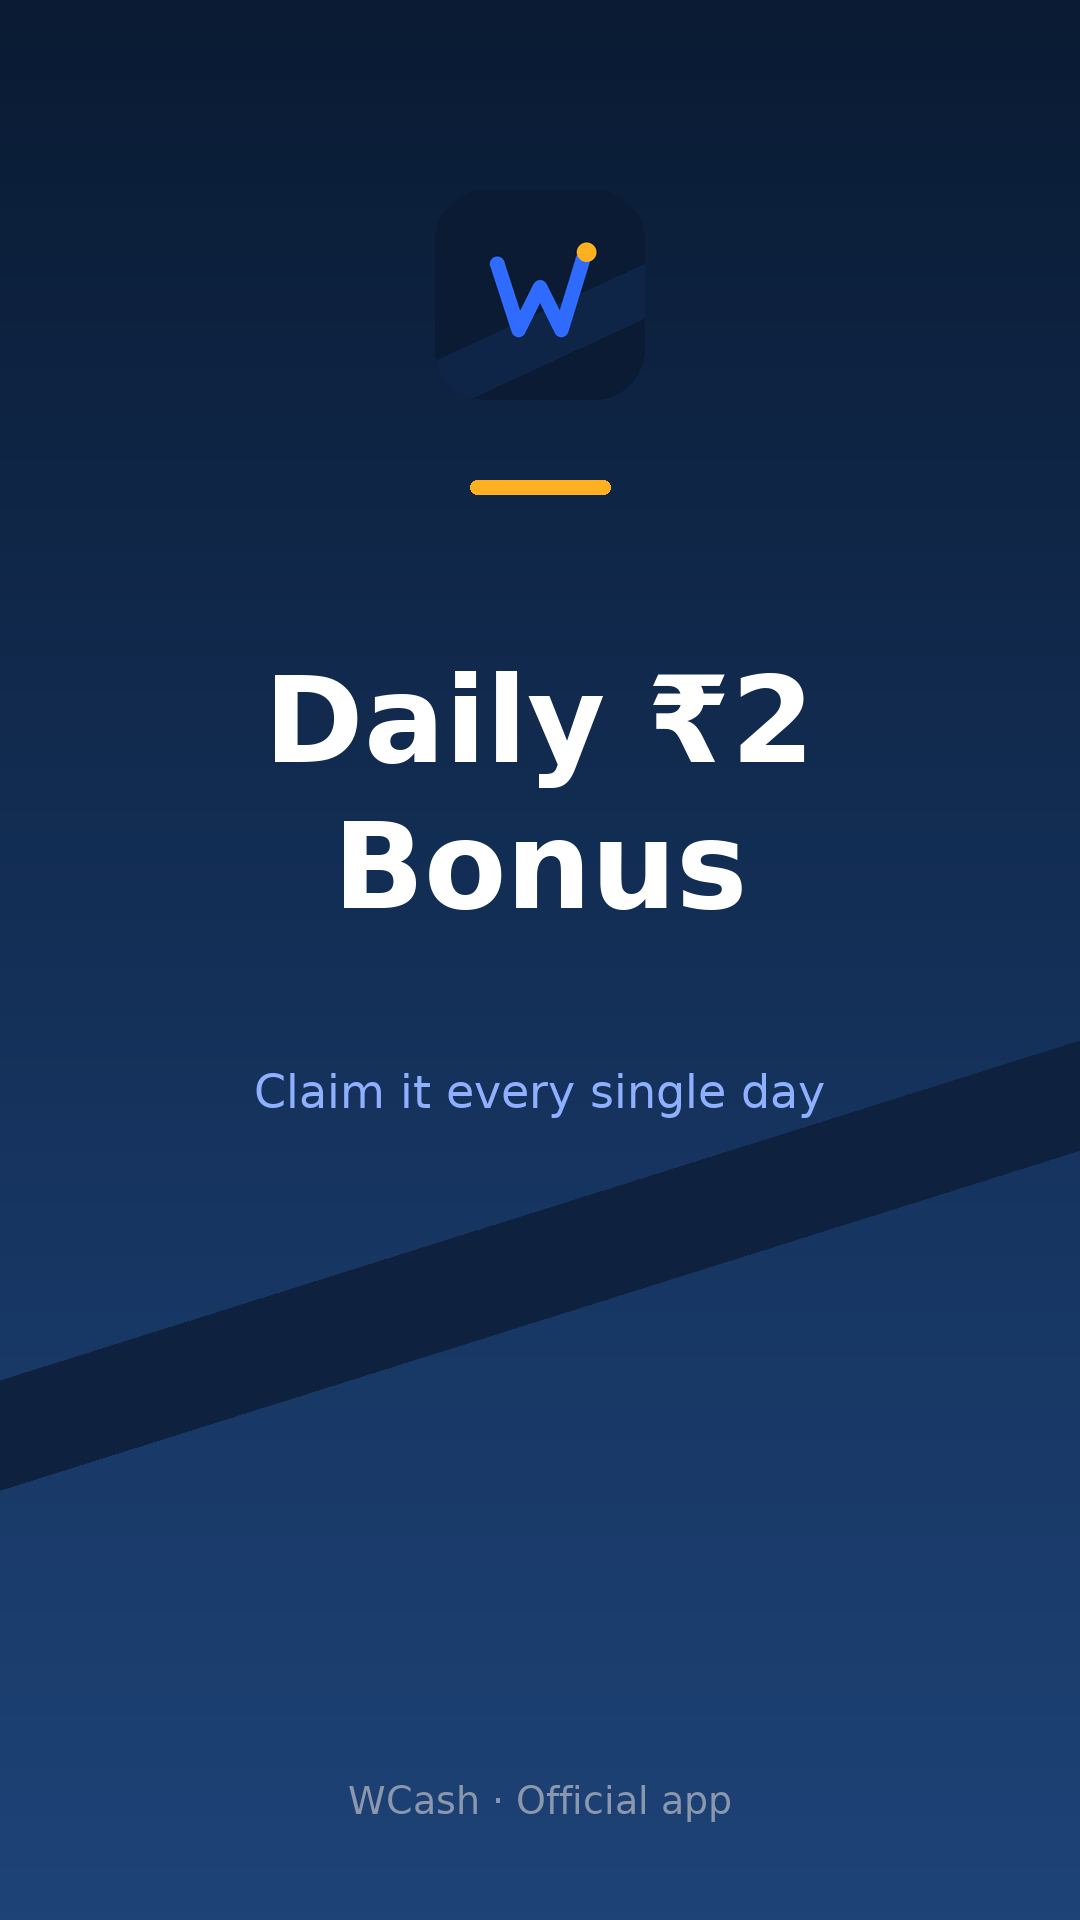
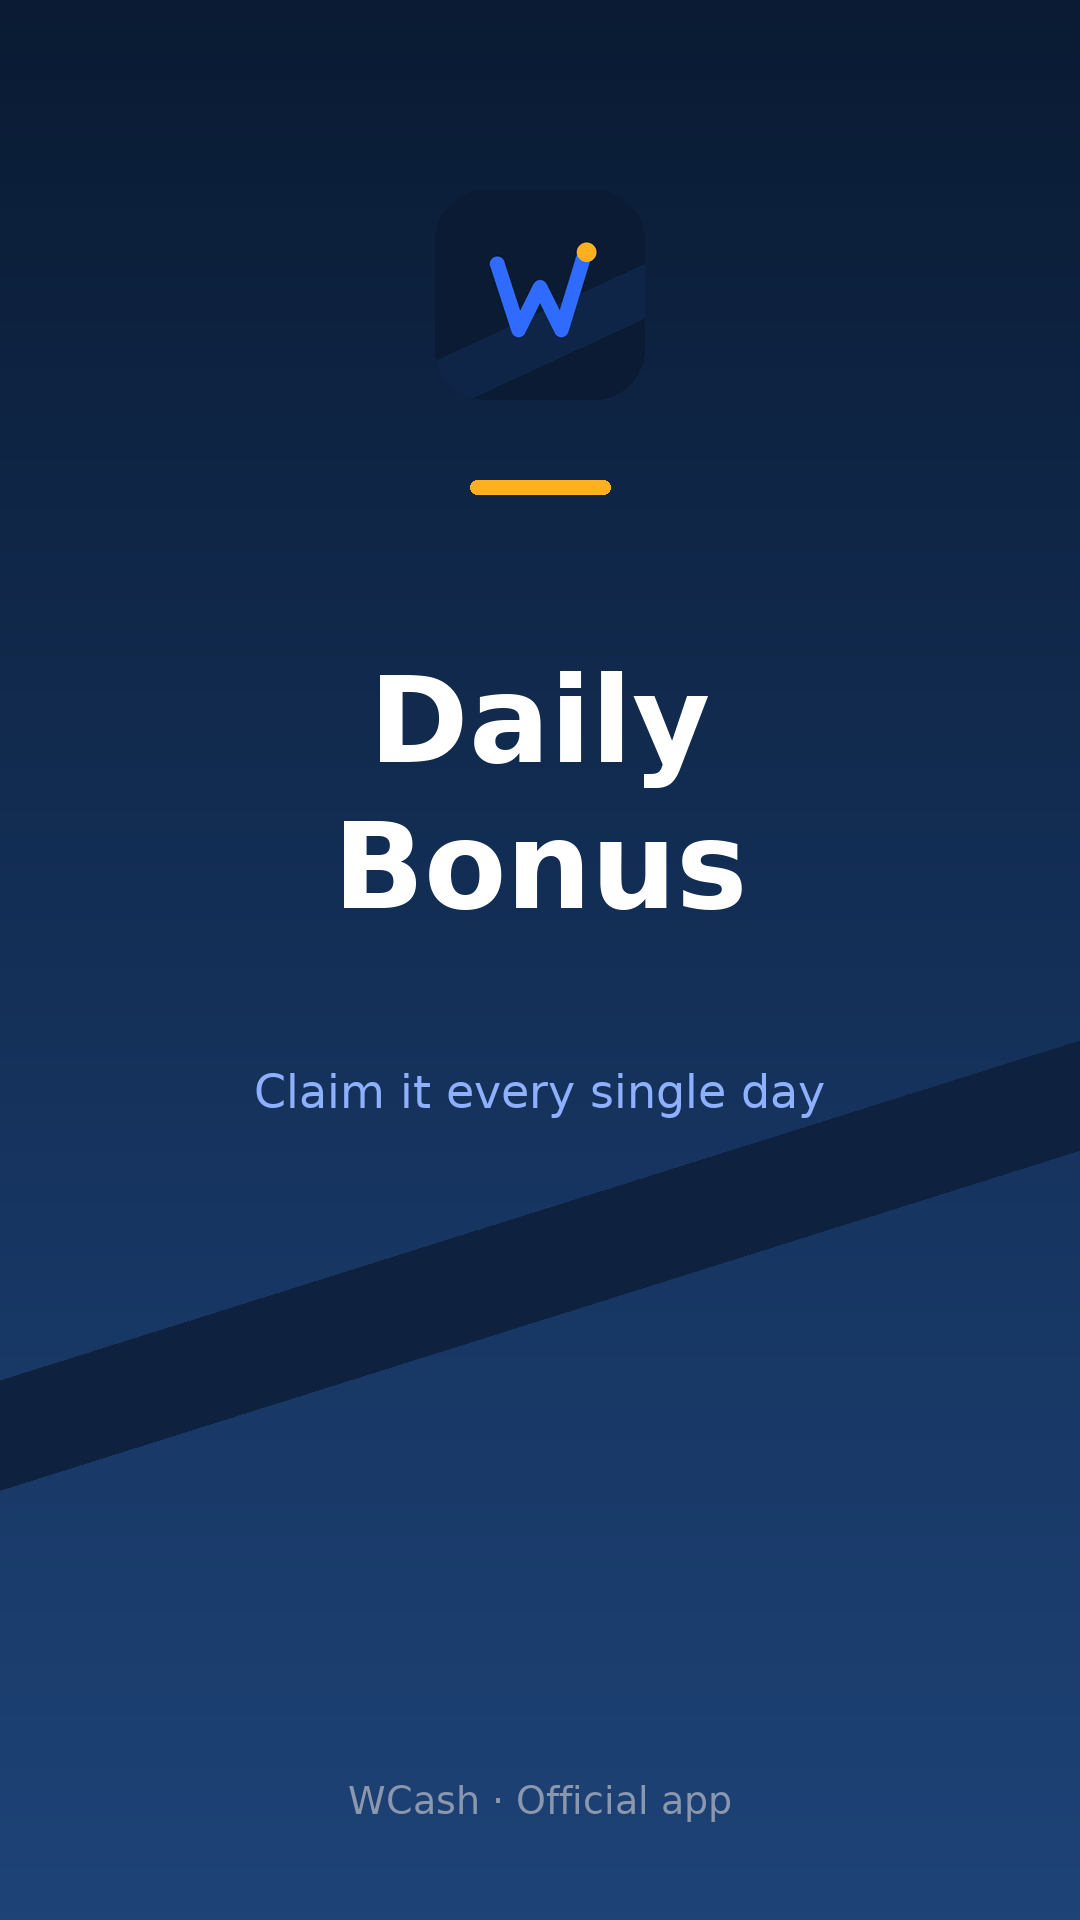
Drop referral and daily bonus amounts from page and promo images

Changed region(s): [[0.2444, 0.3438, 0.7639, 0.4062]]

diff --git a/index.html b/index.html
@@ -494,14 +494,14 @@
           <img class="screenshot-img" src="assets/shot1.png" alt="WCash — Watch &amp; Earn" loading="lazy">
           <img class="screenshot-img" src="assets/shot2.png" alt="WCash — Withdraw from ₹20" loading="lazy">
           <img class="screenshot-img" src="assets/shot3.png" alt="WCash — Refer &amp; Earn" loading="lazy">
-          <img class="screenshot-img" src="assets/shot4.png" alt="WCash — Daily ₹Bonus" loading="lazy">
+          <img class="screenshot-img" src="assets/shot4.png" alt="WCash — Daily Bonus" loading="lazy">
         </div>
       </section>
 
       <!-- About -->
       <section class="card-section">
         <h2>About this app</h2>
-        <p id="app-description" class="app-description truncated">WCash is a free rewards app — watch videos, visit sites, finish tasks and offers to earn, then withdraw your balance to UPI, Google Play redeem codes or Amazon Pay gift cards from just ₹20. Invite friends and earn ₹3 when their first withdrawal is paid, plus a 10% commission from their earnings for their first year. Claim the ₹2 daily bonus, track everything from one clean wallet, and get paid through the method you prefer.</p>
+        <p id="app-description" class="app-description truncated">WCash is a free rewards app — watch videos, visit sites, finish tasks and offers to earn, then withdraw your balance to UPI, Google Play redeem codes or Amazon Pay gift cards from just ₹20. Invite friends and earn when their first withdrawal is paid, plus a share of their earnings for their first year. Claim the daily bonus, track everything from one clean wallet, and get paid through the method you prefer.</p>
         <button id="read-more-btn" class="read-more-btn">Read more</button>
       </section>
 
@@ -523,11 +523,11 @@
           </li>
           <li>
             <div class="feature-icon-wrapper"><svg viewBox="0 0 24 24" fill="none" stroke="currentColor" stroke-width="3"><polyline points="20 6 9 17 4 12"></polyline></svg></div>
-            <span>₹3 referral reward + 10% commission</span>
+            <span>Refer friends and earn together</span>
           </li>
           <li>
             <div class="feature-icon-wrapper"><svg viewBox="0 0 24 24" fill="none" stroke="currentColor" stroke-width="3"><polyline points="20 6 9 17 4 12"></polyline></svg></div>
-            <span>₹2 daily login bonus</span>
+            <span>Daily login bonus</span>
           </li>
         </ul>
       </section>
